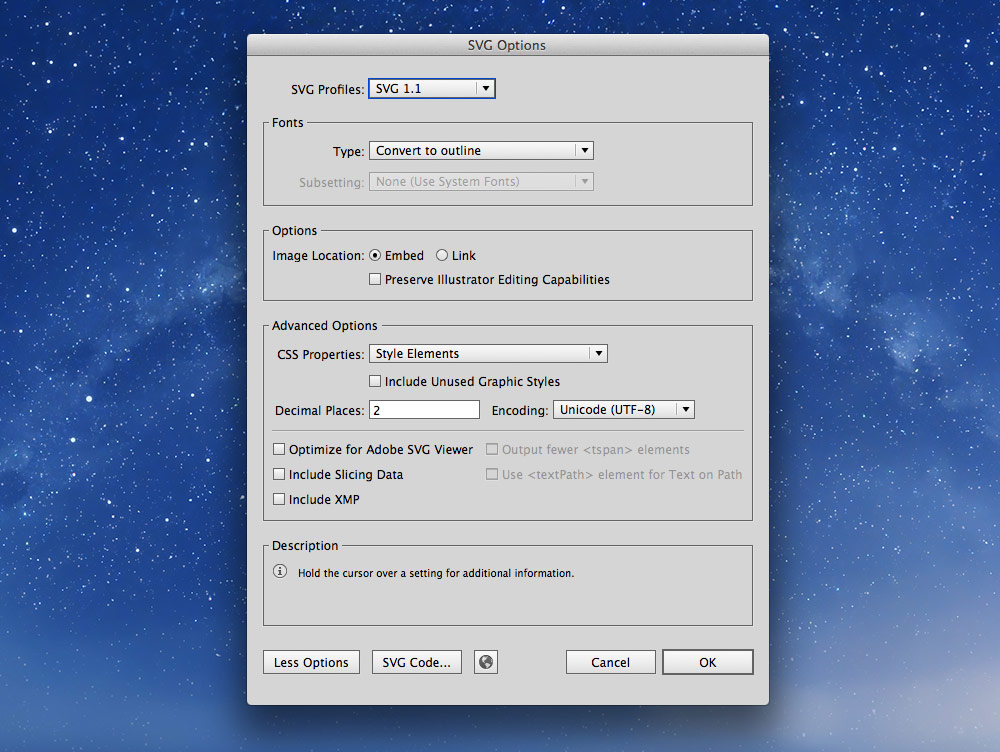
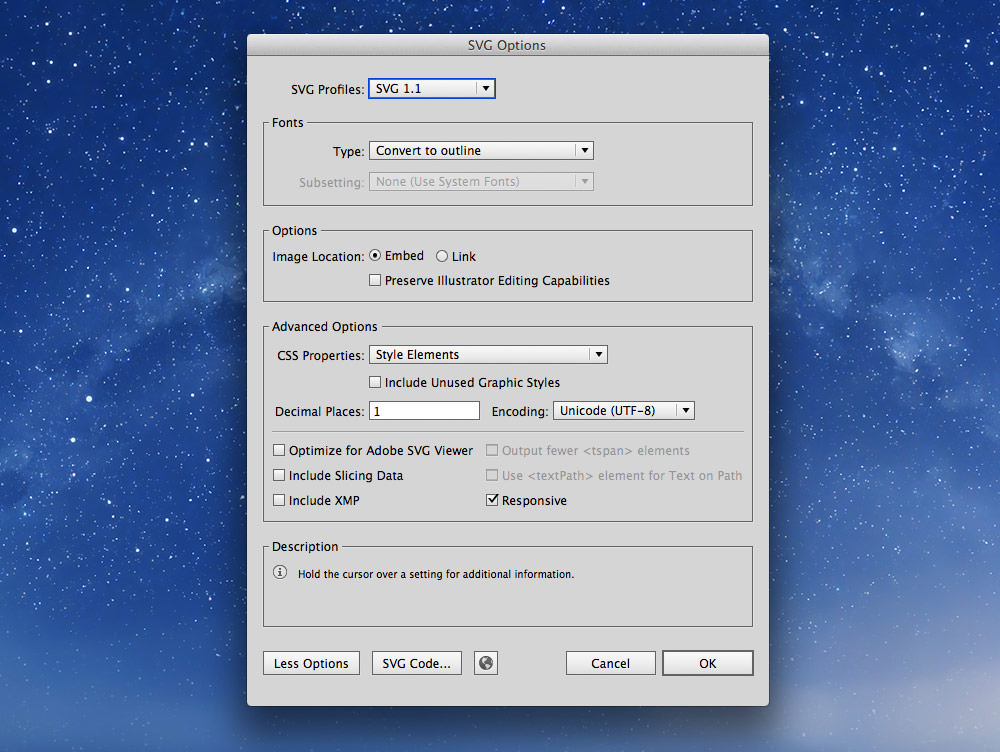
Updated SVG output dialogue to show 1 decimal place.

diff --git a/images/README.md b/images/README.md
@@ -77,7 +77,7 @@ You can open them up in your text editor—because they are just XML—and edit 
 - Un-check “Preserve Illustrator Editing Capabilities”
 - Press the `More Options` button and fill in a couple more options
 	- “CSS Properties” — `Style Elements`
-	- “Decimal Places” — 2 (or usually 1 works)
+	- “Decimal Places” — 1
 
 ![](images-svg.jpg)
 
